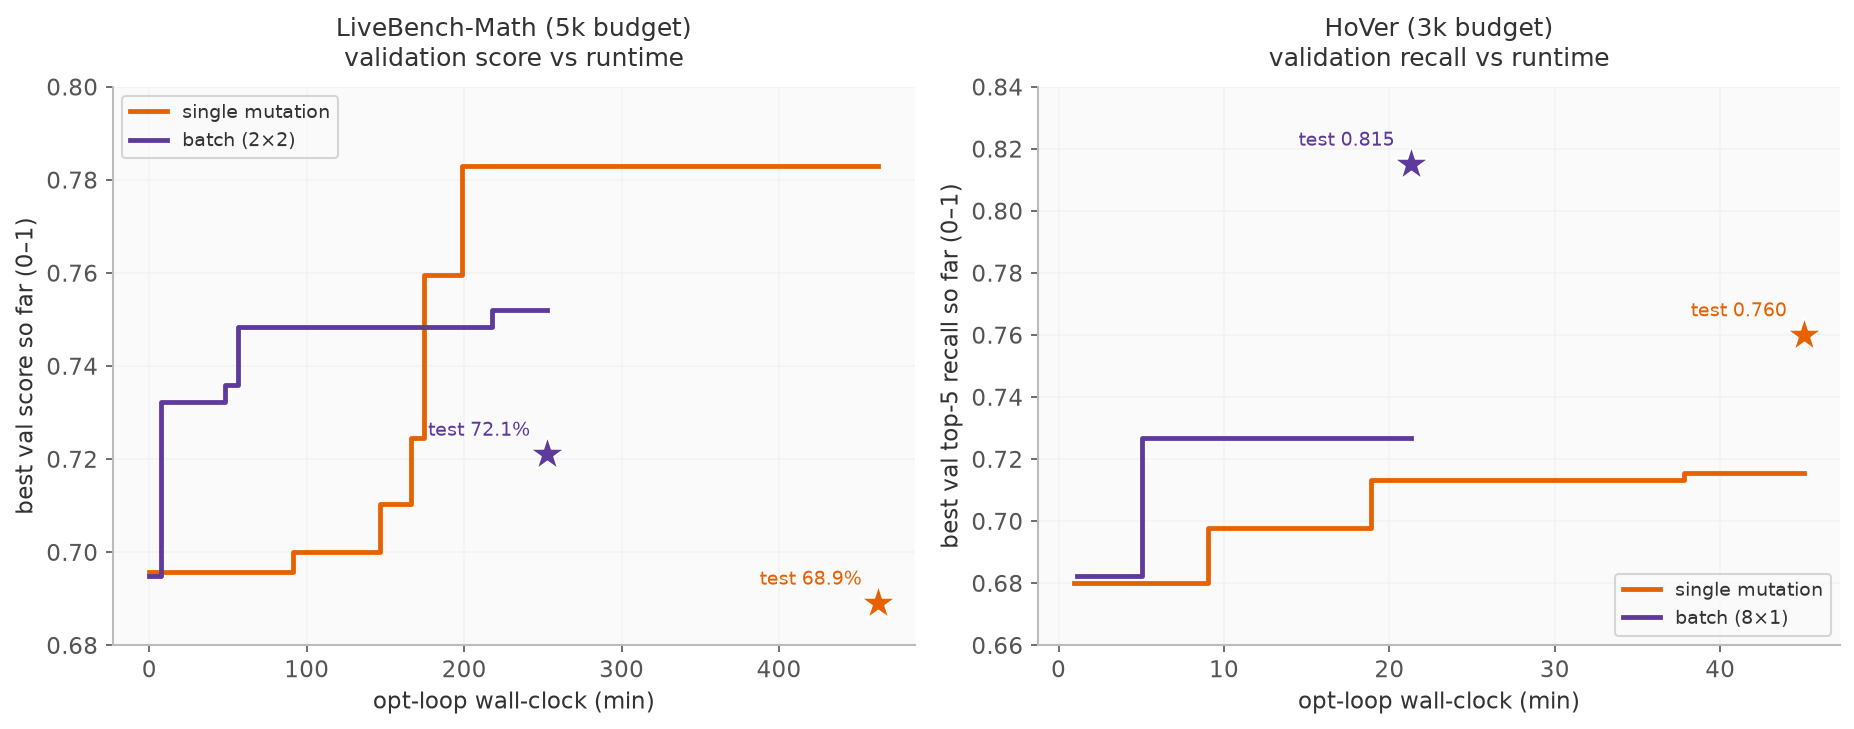
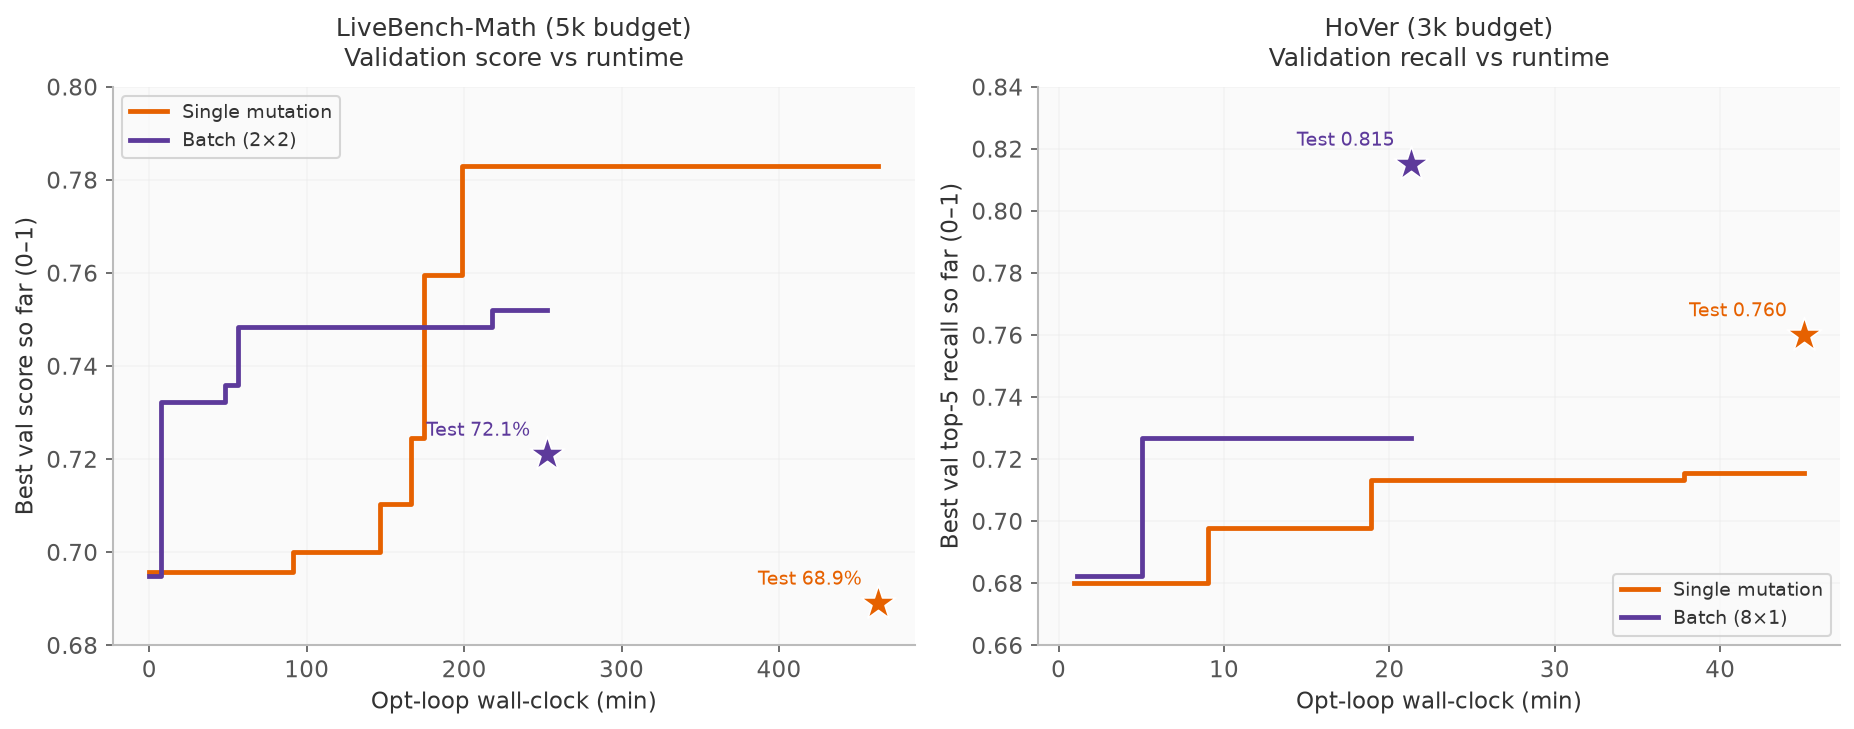
docs(blog): refine P×N step card, add idealized-runtime curve, standardize figure label case

diff --git a/docs/docs/blog/posts/2026-06-22-parallel-proposals/index.md b/docs/docs/blog/posts/2026-06-22-parallel-proposals/index.md
@@ -48,12 +48,12 @@ On each step, GEPA now samples several parents from its Pareto frontier, draws s
     In the new P×N sampling strategy, one GEPA step:
 
     1. samples P parents from the current Pareto frontier;
-    2. draws N reflective mutations of each parent, producing P·N proposals;
+    2. draws N mini-batches per parent and evaluates each parent on them through `batch_evaluate()`, producing P·N reflection requests;
     3. dispatches the reflection requests concurrently;
-    4. screens the proposals on their mini-batches through one `batch_evaluate()` call; and
-    5. evaluates candidates that pass the screen on the full validation set, then updates the frontier.
+    4. screens the proposals by batch-evaluating them again on their mini-batches;
+    5. evaluates accepted candidates on the full validation set in parallel, then updates the frontier.
 
-The mechanism is closely analogous to batch Bayesian optimization[^batchopt], which proposes a batch of candidates per round and evaluates them together when each evaluation is expensive, rather than adapting after every single proposal. Similar to how GEPA uses a Pareto frontier instead of a single best numerical score to select candidates, parallel proposals push the idea further by drawing several extensions of the frontier within each step, thus reducing how often the search adapts to the validation set. [Prior work](https://www.science.org/doi/10.1126/science.aaa9375) shows that repeatedly steering decisions with one fixed holdout can inflate its apparent performance, so committing to more proposals simultaneously may transfer better beyond the validation set.
+The mechanism is closely analogous to batch Bayesian optimization[^batchopt], which proposes a batch of candidates per round and evaluates them together when each evaluation is expensive, rather than adapting after every single proposal. Similar to how GEPA uses a Pareto frontier instead of a single best numerical score to select candidates, parallel proposals push the idea further by drawing several extensions of the frontier within each step, thus reducing how often the search adapts to the validation set. [Prior work](https://www.science.org/doi/10.1126/science.aaa9375) shows that repeatedly steering decisions with one fixed holdout can inflate its apparent performance, so committing to more proposals simultaneously should transfer better beyond the validation set.
 
 ## Results
 
@@ -83,7 +83,7 @@ The measured runs follow this pattern. On LiveBench-Math, moving from single mut
 In practice, two effects increase $L_{\text{step}}$ and $L_{\text{val}}$. First, the reflection wave takes as long as the slowest of its $k$ concurrent calls, so $L_{\text{step}}$ grows with width. Second, the worker pool is finite. With $W$ concurrent workers and a per-rollout latency of $T_e$, a wave of up to $kV$ rollouts ($k$ candidates, each on all $V$ validation examples) takes about $(kV/W) \cdot T_e$ once $kV$ exceeds $W$, so $L_{\text{val}} \propto kV/W$ when $kV>W$. According to strong scaling[^scaling], a run with a budget of $B$ metric calls needs at least $B \cdot T_e / W$ of wall-clock for evaluation alone. This is a hard limit for runtime, so we recommend not scaling $P \cdot N$ further once the runtime approaches it.
 
 <figure markdown="span">
-  ![Two dual-axis line charts across the nine settings from single to 8×2: an orange line with held-out test performance on the left axis, a purple line with optimization time on the right axis, and a dotted baseline. Time falls from 7.7 hours to about 2 on LiveBench-Math and from 47 to 14 minutes on HoVer, while test performance ranges from 66.7 to 72.1 on LiveBench-Math and from 49.0 to 60.0 on HoVer against single mutation's 68.9 and 49.0.](images/scaling_lines.png){ style="width: 100%;" }
+  ![Two dual-axis line charts across the nine settings from single to 8×2: an orange line with held-out test performance on the left axis, a purple line with optimization time on the right axis, a dashed lighter-purple curve with the idealized model's predicted time, and a dotted baseline. Measured time falls from 7.7 hours to about 2 on LiveBench-Math and from 47 to 14 minutes on HoVer; the predicted curve falls further, to 1.7 hours and 4 minutes. Test performance ranges from 66.7 to 72.1 on LiveBench-Math and from 49.0 to 60.0 on HoVer against single mutation's 68.9 and 49.0.](images/scaling_lines.png){ style="width: 100%;" }
   <figcaption>As the per-step width P·N scales up, runtime falls with diminishing returns, and several settings score higher than single mutation.</figcaption>
 </figure>
 
@@ -102,7 +102,7 @@ The plots below show how quality accumulates over each run's wall-clock time. Ea
 
 ### The best setting depends on the budget
 
-Which setting makes the best use of a fixed budget is a compute-optimality question[^chinchilla]. As the figure below shows, batched settings dominate small budgets on both tasks. In principle, the two axes hedge different risks. Larger P extends more members of the frontier at once, which should help when no single generally good candidate exists and the frontier holds genuinely different specialists worth advancing in parallel. Larger N draws more mutations around each parent, each reflecting on its own mini-batch sample, which should help when the dataset is rich enough to expose many distinct directions to improve one candidate. LiveBench-Math is the second case, with problems spanning multiple areas, so giving each parent several mutations (larger N) transferred better to test than spreading single mutations across more parents (larger P). HoVer additionally keeps a more complementary candidate pool, where different candidates succeed on different claims, and its test scores tend to grow with both P and N. Based on the results, we suggest scaling N first when in doubt.
+As the figure below shows, batched settings dominate small budgets on both tasks. In principle, the two axes hedge different risks. Larger P extends more members of the frontier at once, which should help when no single generally good candidate exists and the frontier holds genuinely different specialists worth advancing in parallel. Larger N draws more mutations around each parent, each reflecting on its own mini-batch sample, which should help when the dataset is rich enough to expose many distinct directions to improve one candidate. LiveBench-Math is the second case, with problems spanning multiple areas, so giving each parent several mutations (larger N) transferred better to test than spreading single mutations across more parents (larger P). HoVer additionally keeps a more complementary candidate pool, where different candidates succeed on different claims, and its test scores tend to grow with both P and N. Based on the results, we suggest scaling N first when in doubt.
 
 <figure markdown="span">
   ![Two step charts of best validation score against metric calls consumed, for single mutation and one matched-width pair per task, with stars marking held-out test scores. On LiveBench-Math, 2×2 climbs past 4×1 within about 100 calls and reaches 0.748 by about 1,000, while single mutation overtakes on validation at about 2,000 calls and ends at 0.783; test stars are 72.1% for 2×2 against 68.9% for single mutation and 68.7% for 4×1. On HoVer, 8×1 jumps to 0.727 within about 400 calls and leads single mutation at every budget, 2×4 finishes highest at 0.740, and single mutation ends at 0.709; test stars show recall of 0.815 for 8×1, 0.810 for 2×4, and 0.760 for single mutation.](images/budget_pareto.png){ style="width: 100%;" }
@@ -264,4 +264,3 @@ The default is still single mutation, matching GEPA's earlier behavior, so exist
 
 [^batchopt]: David Ginsbourger, Rodolphe Le Riche, and Laurent Carraro, "[Kriging is well-suited to parallelize optimization](https://link.springer.com/chapter/10.1007/978-3-642-10701-6_6)," 2010.
 [^scaling]: Gene M. Amdahl, "[Validity of the single processor approach to achieving large scale computing capabilities](https://dl.acm.org/doi/10.1145/1465482.1465560)," AFIPS 1967.
-[^chinchilla]: Jordan Hoffmann et al., "[Training Compute-Optimal Large Language Models](https://arxiv.org/abs/2203.15556)," 2022.
